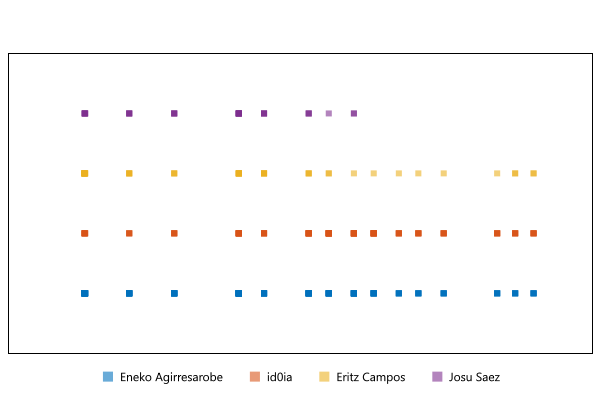
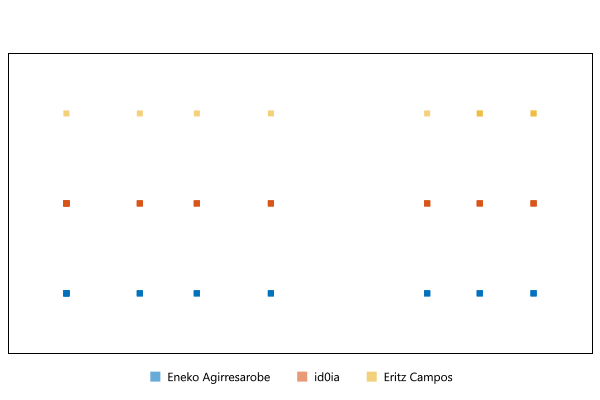
Report updated

diff --git a/Zanter/fe54f9e9/index.html b/Zanter/fe54f9e9/index.html
@@ -22,4 +22,4 @@ body
     font-family: "Segoe UI","-apple-system",BlinkMacSystemFont,Roboto,"Helvetica Neue",Helvetica,Ubuntu,Arial,sans-serif,"Apple Color Emoji","Segoe UI Emoji","Segoe UI Symbol";
     font-size: .875rem;
 }
-</style><div class="reportSubItem">Updated on 2023-04-19 10:22:50</div><h1>Automobil zirkuitua</h1><div class="reportItem"><svg aria-labelledby="__bolt-status-131-desc" style="fill: rgba(85,163,98,1)" height="16" viewBox="0 0 16 16" width="16" xmlns="http://www.w3.org/2000/svg"><desc id="__bolt-status-131-desc">Success 20m 33s</desc><circle cx="8" cy="8" r="8"></circle><path d="M6.062 11.144l-.003-.002-1.784-1.785A.937.937 0 1 1 5.6 8.031l1.125 1.124 3.88-3.88A.937.937 0 1 1 11.931 6.6l-4.54 4.54-.004.004a.938.938 0 0 1-1.325 0z" fill="#fff"></path></svg> Eneko Agirresarobe: 51.94</div><div class="reportItem"><svg aria-labelledby="__bolt-status-131-desc" style="fill: rgba(85,163,98,1)" height="16" viewBox="0 0 16 16" width="16" xmlns="http://www.w3.org/2000/svg"><desc id="__bolt-status-131-desc">Success 20m 33s</desc><circle cx="8" cy="8" r="8"></circle><path d="M6.062 11.144l-.003-.002-1.784-1.785A.937.937 0 1 1 5.6 8.031l1.125 1.124 3.88-3.88A.937.937 0 1 1 11.931 6.6l-4.54 4.54-.004.004a.938.938 0 0 1-1.325 0z" fill="#fff"></path></svg> id0ia: 16.43</div><div class="reportItem"><svg aria-labelledby="__bolt-status-131-desc" style="fill: rgba(85,163,98,1)" height="16" viewBox="0 0 16 16" width="16" xmlns="http://www.w3.org/2000/svg"><desc id="__bolt-status-131-desc">Success 20m 33s</desc><circle cx="8" cy="8" r="8"></circle><path d="M6.062 11.144l-.003-.002-1.784-1.785A.937.937 0 1 1 5.6 8.031l1.125 1.124 3.88-3.88A.937.937 0 1 1 11.931 6.6l-4.54 4.54-.004.004a.938.938 0 0 1-1.325 0z" fill="#fff"></path></svg> Eritz Campos: 30.36</div><div class="reportItem"><svg aria-labelledby="__bolt-status-104-desc" style="fill: rgba(205,74,69,1)" height="16" viewBox="0 0 16 16" width="16" xmlns="http://www.w3.org/2000/svg"><desc id="__bolt-status-104-desc">Failed 15m 19s</desc><circle cx="8" cy="8" r="8"></circle><path d="M10.984 5.004a.9.9 0 0 1 0 1.272L9.27 7.99l1.74 1.741a.9.9 0 1 1-1.272 1.273l-1.74-1.741-1.742 1.74a.9.9 0 1 1-1.272-1.272l1.74-1.74-1.713-1.714a.9.9 0 0 1 1.273-1.273l1.713 1.713 1.714-1.713a.9.9 0 0 1 1.273 0z" fill="#fff"></path></svg> Josu Saez: 1.28</div><h1>Golf zelaia</h1><div class="reportItem"><svg aria-labelledby="__bolt-status-131-desc" style="fill: rgba(85,163,98,1)" height="16" viewBox="0 0 16 16" width="16" xmlns="http://www.w3.org/2000/svg"><desc id="__bolt-status-131-desc">Success 20m 33s</desc><circle cx="8" cy="8" r="8"></circle><path d="M6.062 11.144l-.003-.002-1.784-1.785A.937.937 0 1 1 5.6 8.031l1.125 1.124 3.88-3.88A.937.937 0 1 1 11.931 6.6l-4.54 4.54-.004.004a.938.938 0 0 1-1.325 0z" fill="#fff"></path></svg> mikel goiogana: 51.22</div><div class="reportItem"><svg aria-labelledby="__bolt-status-104-desc" style="fill: rgba(205,74,69,1)" height="16" viewBox="0 0 16 16" width="16" xmlns="http://www.w3.org/2000/svg"><desc id="__bolt-status-104-desc">Failed 15m 19s</desc><circle cx="8" cy="8" r="8"></circle><path d="M10.984 5.004a.9.9 0 0 1 0 1.272L9.27 7.99l1.74 1.741a.9.9 0 1 1-1.272 1.273l-1.74-1.741-1.742 1.74a.9.9 0 1 1-1.272-1.272l1.74-1.74-1.713-1.714a.9.9 0 0 1 1.273-1.273l1.713 1.713 1.714-1.713a.9.9 0 0 1 1.273 0z" fill="#fff"></path></svg> Mikel MTZ ZUAZO: 4.77</div><div class="reportItem"><svg aria-labelledby="__bolt-status-131-desc" style="fill: rgba(85,163,98,1)" height="16" viewBox="0 0 16 16" width="16" xmlns="http://www.w3.org/2000/svg"><desc id="__bolt-status-131-desc">Success 20m 33s</desc><circle cx="8" cy="8" r="8"></circle><path d="M6.062 11.144l-.003-.002-1.784-1.785A.937.937 0 1 1 5.6 8.031l1.125 1.124 3.88-3.88A.937.937 0 1 1 11.931 6.6l-4.54 4.54-.004.004a.938.938 0 0 1-1.325 0z" fill="#fff"></path></svg> Ander Viteri: 44.01</div><h1>Kontzertu-gunea Karrantzan</h1><div class="reportItem"><svg aria-labelledby="__bolt-status-131-desc" style="fill: rgba(85,163,98,1)" height="16" viewBox="0 0 16 16" width="16" xmlns="http://www.w3.org/2000/svg"><desc id="__bolt-status-131-desc">Success 20m 33s</desc><circle cx="8" cy="8" r="8"></circle><path d="M6.062 11.144l-.003-.002-1.784-1.785A.937.937 0 1 1 5.6 8.031l1.125 1.124 3.88-3.88A.937.937 0 1 1 11.931 6.6l-4.54 4.54-.004.004a.938.938 0 0 1-1.325 0z" fill="#fff"></path></svg> Ioritz Segura: 8.97</div><div class="reportItem"><svg aria-labelledby="__bolt-status-131-desc" style="fill: rgba(85,163,98,1)" height="16" viewBox="0 0 16 16" width="16" xmlns="http://www.w3.org/2000/svg"><desc id="__bolt-status-131-desc">Success 20m 33s</desc><circle cx="8" cy="8" r="8"></circle><path d="M6.062 11.144l-.003-.002-1.784-1.785A.937.937 0 1 1 5.6 8.031l1.125 1.124 3.88-3.88A.937.937 0 1 1 11.931 6.6l-4.54 4.54-.004.004a.938.938 0 0 1-1.325 0z" fill="#fff"></path></svg> Laura Arribas: 22.23</div><div class="reportItem"><svg aria-labelledby="__bolt-status-131-desc" style="fill: rgba(85,163,98,1)" height="16" viewBox="0 0 16 16" width="16" xmlns="http://www.w3.org/2000/svg"><desc id="__bolt-status-131-desc">Success 20m 33s</desc><circle cx="8" cy="8" r="8"></circle><path d="M6.062 11.144l-.003-.002-1.784-1.785A.937.937 0 1 1 5.6 8.031l1.125 1.124 3.88-3.88A.937.937 0 1 1 11.931 6.6l-4.54 4.54-.004.004a.938.938 0 0 1-1.325 0z" fill="#fff"></path></svg> Jon Ruiz de la Ylla: 59.14</div><div class="reportItem"><svg aria-labelledby="__bolt-status-131-desc" style="fill: rgba(85,163,98,1)" height="16" viewBox="0 0 16 16" width="16" xmlns="http://www.w3.org/2000/svg"><desc id="__bolt-status-131-desc">Success 20m 33s</desc><circle cx="8" cy="8" r="8"></circle><path d="M6.062 11.144l-.003-.002-1.784-1.785A.937.937 0 1 1 5.6 8.031l1.125 1.124 3.88-3.88A.937.937 0 1 1 11.931 6.6l-4.54 4.54-.004.004a.938.938 0 0 1-1.325 0z" fill="#fff"></path></svg> unai fernandez: 9.67</div></body></html>
+</style><div class="reportSubItem">Updated on 2023-04-19 11:03:07</div><h1>Automobil zirkuitua</h1><div class="reportImage"><img width="350" src="fe54f9e9/activity-plot-Automobil-zirkuitua.png"/></div><div class="reportItem"><svg aria-labelledby="__bolt-status-131-desc" style="fill: rgba(85,163,98,1)" height="16" viewBox="0 0 16 16" width="16" xmlns="http://www.w3.org/2000/svg"><desc id="__bolt-status-131-desc">Success 20m 33s</desc><circle cx="8" cy="8" r="8"></circle><path d="M6.062 11.144l-.003-.002-1.784-1.785A.937.937 0 1 1 5.6 8.031l1.125 1.124 3.88-3.88A.937.937 0 1 1 11.931 6.6l-4.54 4.54-.004.004a.938.938 0 0 1-1.325 0z" fill="#fff"></path></svg> Eneko Agirresarobe: 25.64</div><div class="reportItem"><svg aria-labelledby="__bolt-status-104-desc" style="fill: rgba(205,74,69,1)" height="16" viewBox="0 0 16 16" width="16" xmlns="http://www.w3.org/2000/svg"><desc id="__bolt-status-104-desc">Failed 15m 19s</desc><circle cx="8" cy="8" r="8"></circle><path d="M10.984 5.004a.9.9 0 0 1 0 1.272L9.27 7.99l1.74 1.741a.9.9 0 1 1-1.272 1.273l-1.74-1.741-1.742 1.74a.9.9 0 1 1-1.272-1.272l1.74-1.74-1.713-1.714a.9.9 0 0 1 1.273-1.273l1.713 1.713 1.714-1.713a.9.9 0 0 1 1.273 0z" fill="#fff"></path></svg> id0ia: 4.42</div><div class="reportItem"><svg aria-labelledby="__bolt-status-131-desc" style="fill: rgba(85,163,98,1)" height="16" viewBox="0 0 16 16" width="16" xmlns="http://www.w3.org/2000/svg"><desc id="__bolt-status-131-desc">Success 20m 33s</desc><circle cx="8" cy="8" r="8"></circle><path d="M6.062 11.144l-.003-.002-1.784-1.785A.937.937 0 1 1 5.6 8.031l1.125 1.124 3.88-3.88A.937.937 0 1 1 11.931 6.6l-4.54 4.54-.004.004a.938.938 0 0 1-1.325 0z" fill="#fff"></path></svg> Eritz Campos: 69.94</div><h1>Golf zelaia</h1><div class="reportImage"><img width="350" src="fe54f9e9/activity-plot-Golf-zelaia.png"/></div><div class="reportItem"><svg aria-labelledby="__bolt-status-131-desc" style="fill: rgba(85,163,98,1)" height="16" viewBox="0 0 16 16" width="16" xmlns="http://www.w3.org/2000/svg"><desc id="__bolt-status-131-desc">Success 20m 33s</desc><circle cx="8" cy="8" r="8"></circle><path d="M6.062 11.144l-.003-.002-1.784-1.785A.937.937 0 1 1 5.6 8.031l1.125 1.124 3.88-3.88A.937.937 0 1 1 11.931 6.6l-4.54 4.54-.004.004a.938.938 0 0 1-1.325 0z" fill="#fff"></path></svg> mikel goiogana: 51.22</div><div class="reportItem"><svg aria-labelledby="__bolt-status-104-desc" style="fill: rgba(205,74,69,1)" height="16" viewBox="0 0 16 16" width="16" xmlns="http://www.w3.org/2000/svg"><desc id="__bolt-status-104-desc">Failed 15m 19s</desc><circle cx="8" cy="8" r="8"></circle><path d="M10.984 5.004a.9.9 0 0 1 0 1.272L9.27 7.99l1.74 1.741a.9.9 0 1 1-1.272 1.273l-1.74-1.741-1.742 1.74a.9.9 0 1 1-1.272-1.272l1.74-1.74-1.713-1.714a.9.9 0 0 1 1.273-1.273l1.713 1.713 1.714-1.713a.9.9 0 0 1 1.273 0z" fill="#fff"></path></svg> Mikel MTZ ZUAZO: 4.77</div><div class="reportItem"><svg aria-labelledby="__bolt-status-131-desc" style="fill: rgba(85,163,98,1)" height="16" viewBox="0 0 16 16" width="16" xmlns="http://www.w3.org/2000/svg"><desc id="__bolt-status-131-desc">Success 20m 33s</desc><circle cx="8" cy="8" r="8"></circle><path d="M6.062 11.144l-.003-.002-1.784-1.785A.937.937 0 1 1 5.6 8.031l1.125 1.124 3.88-3.88A.937.937 0 1 1 11.931 6.6l-4.54 4.54-.004.004a.938.938 0 0 1-1.325 0z" fill="#fff"></path></svg> Ander Viteri: 44.01</div><h1>Kontzertu-gunea Karrantzan</h1><div class="reportImage"><img width="350" src="fe54f9e9/activity-plot-Kontzertu-gunea-Karrantzan.png"/></div><div class="reportItem"><svg aria-labelledby="__bolt-status-131-desc" style="fill: rgba(85,163,98,1)" height="16" viewBox="0 0 16 16" width="16" xmlns="http://www.w3.org/2000/svg"><desc id="__bolt-status-131-desc">Success 20m 33s</desc><circle cx="8" cy="8" r="8"></circle><path d="M6.062 11.144l-.003-.002-1.784-1.785A.937.937 0 1 1 5.6 8.031l1.125 1.124 3.88-3.88A.937.937 0 1 1 11.931 6.6l-4.54 4.54-.004.004a.938.938 0 0 1-1.325 0z" fill="#fff"></path></svg> Ioritz Segura: 8.97</div><div class="reportItem"><svg aria-labelledby="__bolt-status-131-desc" style="fill: rgba(85,163,98,1)" height="16" viewBox="0 0 16 16" width="16" xmlns="http://www.w3.org/2000/svg"><desc id="__bolt-status-131-desc">Success 20m 33s</desc><circle cx="8" cy="8" r="8"></circle><path d="M6.062 11.144l-.003-.002-1.784-1.785A.937.937 0 1 1 5.6 8.031l1.125 1.124 3.88-3.88A.937.937 0 1 1 11.931 6.6l-4.54 4.54-.004.004a.938.938 0 0 1-1.325 0z" fill="#fff"></path></svg> Laura Arribas: 22.23</div><div class="reportItem"><svg aria-labelledby="__bolt-status-131-desc" style="fill: rgba(85,163,98,1)" height="16" viewBox="0 0 16 16" width="16" xmlns="http://www.w3.org/2000/svg"><desc id="__bolt-status-131-desc">Success 20m 33s</desc><circle cx="8" cy="8" r="8"></circle><path d="M6.062 11.144l-.003-.002-1.784-1.785A.937.937 0 1 1 5.6 8.031l1.125 1.124 3.88-3.88A.937.937 0 1 1 11.931 6.6l-4.54 4.54-.004.004a.938.938 0 0 1-1.325 0z" fill="#fff"></path></svg> Jon Ruiz de la Ylla: 59.14</div><div class="reportItem"><svg aria-labelledby="__bolt-status-131-desc" style="fill: rgba(85,163,98,1)" height="16" viewBox="0 0 16 16" width="16" xmlns="http://www.w3.org/2000/svg"><desc id="__bolt-status-131-desc">Success 20m 33s</desc><circle cx="8" cy="8" r="8"></circle><path d="M6.062 11.144l-.003-.002-1.784-1.785A.937.937 0 1 1 5.6 8.031l1.125 1.124 3.88-3.88A.937.937 0 1 1 11.931 6.6l-4.54 4.54-.004.004a.938.938 0 0 1-1.325 0z" fill="#fff"></path></svg> unai fernandez: 9.67</div></body></html>

diff --git a/Zanter/fe54f9e9/666b7f03/index.html b/Zanter/fe54f9e9/666b7f03/index.html
@@ -22,4 +22,4 @@ body
     font-family: "Segoe UI","-apple-system",BlinkMacSystemFont,Roboto,"Helvetica Neue",Helvetica,Ubuntu,Arial,sans-serif,"Apple Color Emoji","Segoe UI Emoji","Segoe UI Symbol";
     font-size: .875rem;
 }
-</style><h1>Kontzertu-gunea Karrantzan</h1><div class="reportSubItem">Updated on 2023-04-19 10:22:50</div><div class="reportImage"><img width="350" src="activity-plot-Kontzertu-gunea-Karrantzan.png"/></div><div class="reportItem"><svg aria-labelledby="__bolt-status-131-desc" style="fill: rgba(85,163,98,1)" height="16" viewBox="0 0 16 16" width="16" xmlns="http://www.w3.org/2000/svg"><desc id="__bolt-status-131-desc">Success 20m 33s</desc><circle cx="8" cy="8" r="8"></circle><path d="M6.062 11.144l-.003-.002-1.784-1.785A.937.937 0 1 1 5.6 8.031l1.125 1.124 3.88-3.88A.937.937 0 1 1 11.931 6.6l-4.54 4.54-.004.004a.938.938 0 0 1-1.325 0z" fill="#fff"></path></svg> Ioritz Segura: 8.97</div><div class="reportItem"><svg aria-labelledby="__bolt-status-131-desc" style="fill: rgba(85,163,98,1)" height="16" viewBox="0 0 16 16" width="16" xmlns="http://www.w3.org/2000/svg"><desc id="__bolt-status-131-desc">Success 20m 33s</desc><circle cx="8" cy="8" r="8"></circle><path d="M6.062 11.144l-.003-.002-1.784-1.785A.937.937 0 1 1 5.6 8.031l1.125 1.124 3.88-3.88A.937.937 0 1 1 11.931 6.6l-4.54 4.54-.004.004a.938.938 0 0 1-1.325 0z" fill="#fff"></path></svg> Laura Arribas: 22.23</div><div class="reportItem"><svg aria-labelledby="__bolt-status-131-desc" style="fill: rgba(85,163,98,1)" height="16" viewBox="0 0 16 16" width="16" xmlns="http://www.w3.org/2000/svg"><desc id="__bolt-status-131-desc">Success 20m 33s</desc><circle cx="8" cy="8" r="8"></circle><path d="M6.062 11.144l-.003-.002-1.784-1.785A.937.937 0 1 1 5.6 8.031l1.125 1.124 3.88-3.88A.937.937 0 1 1 11.931 6.6l-4.54 4.54-.004.004a.938.938 0 0 1-1.325 0z" fill="#fff"></path></svg> Jon Ruiz de la Ylla: 59.14</div><div class="reportItem"><svg aria-labelledby="__bolt-status-131-desc" style="fill: rgba(85,163,98,1)" height="16" viewBox="0 0 16 16" width="16" xmlns="http://www.w3.org/2000/svg"><desc id="__bolt-status-131-desc">Success 20m 33s</desc><circle cx="8" cy="8" r="8"></circle><path d="M6.062 11.144l-.003-.002-1.784-1.785A.937.937 0 1 1 5.6 8.031l1.125 1.124 3.88-3.88A.937.937 0 1 1 11.931 6.6l-4.54 4.54-.004.004a.938.938 0 0 1-1.325 0z" fill="#fff"></path></svg> unai fernandez: 9.67</div></body></html>
+</style><h1>Kontzertu-gunea Karrantzan</h1><div class="reportSubItem">Updated on 2023-04-19 11:03:07</div><div class="reportImage"><img width="350" src="activity-plot-Kontzertu-gunea-Karrantzan.png"/></div><div class="reportItem"><svg aria-labelledby="__bolt-status-131-desc" style="fill: rgba(85,163,98,1)" height="16" viewBox="0 0 16 16" width="16" xmlns="http://www.w3.org/2000/svg"><desc id="__bolt-status-131-desc">Success 20m 33s</desc><circle cx="8" cy="8" r="8"></circle><path d="M6.062 11.144l-.003-.002-1.784-1.785A.937.937 0 1 1 5.6 8.031l1.125 1.124 3.88-3.88A.937.937 0 1 1 11.931 6.6l-4.54 4.54-.004.004a.938.938 0 0 1-1.325 0z" fill="#fff"></path></svg> Ioritz Segura: 8.97</div><div class="reportItem"><svg aria-labelledby="__bolt-status-131-desc" style="fill: rgba(85,163,98,1)" height="16" viewBox="0 0 16 16" width="16" xmlns="http://www.w3.org/2000/svg"><desc id="__bolt-status-131-desc">Success 20m 33s</desc><circle cx="8" cy="8" r="8"></circle><path d="M6.062 11.144l-.003-.002-1.784-1.785A.937.937 0 1 1 5.6 8.031l1.125 1.124 3.88-3.88A.937.937 0 1 1 11.931 6.6l-4.54 4.54-.004.004a.938.938 0 0 1-1.325 0z" fill="#fff"></path></svg> Laura Arribas: 22.23</div><div class="reportItem"><svg aria-labelledby="__bolt-status-131-desc" style="fill: rgba(85,163,98,1)" height="16" viewBox="0 0 16 16" width="16" xmlns="http://www.w3.org/2000/svg"><desc id="__bolt-status-131-desc">Success 20m 33s</desc><circle cx="8" cy="8" r="8"></circle><path d="M6.062 11.144l-.003-.002-1.784-1.785A.937.937 0 1 1 5.6 8.031l1.125 1.124 3.88-3.88A.937.937 0 1 1 11.931 6.6l-4.54 4.54-.004.004a.938.938 0 0 1-1.325 0z" fill="#fff"></path></svg> Jon Ruiz de la Ylla: 59.14</div><div class="reportItem"><svg aria-labelledby="__bolt-status-131-desc" style="fill: rgba(85,163,98,1)" height="16" viewBox="0 0 16 16" width="16" xmlns="http://www.w3.org/2000/svg"><desc id="__bolt-status-131-desc">Success 20m 33s</desc><circle cx="8" cy="8" r="8"></circle><path d="M6.062 11.144l-.003-.002-1.784-1.785A.937.937 0 1 1 5.6 8.031l1.125 1.124 3.88-3.88A.937.937 0 1 1 11.931 6.6l-4.54 4.54-.004.004a.938.938 0 0 1-1.325 0z" fill="#fff"></path></svg> unai fernandez: 9.67</div></body></html>

diff --git a/Zanter/fe54f9e9/0541b4df/index.html b/Zanter/fe54f9e9/0541b4df/index.html
@@ -22,4 +22,4 @@ body
     font-family: "Segoe UI","-apple-system",BlinkMacSystemFont,Roboto,"Helvetica Neue",Helvetica,Ubuntu,Arial,sans-serif,"Apple Color Emoji","Segoe UI Emoji","Segoe UI Symbol";
     font-size: .875rem;
 }
-</style><h1>Automobil zirkuitua</h1><div class="reportSubItem">Updated on 2023-04-19 10:22:42</div><div class="reportImage"><img width="350" src="activity-plot-Automobil-zirkuitua.png"/></div><div class="reportItem"><svg aria-labelledby="__bolt-status-131-desc" style="fill: rgba(85,163,98,1)" height="16" viewBox="0 0 16 16" width="16" xmlns="http://www.w3.org/2000/svg"><desc id="__bolt-status-131-desc">Success 20m 33s</desc><circle cx="8" cy="8" r="8"></circle><path d="M6.062 11.144l-.003-.002-1.784-1.785A.937.937 0 1 1 5.6 8.031l1.125 1.124 3.88-3.88A.937.937 0 1 1 11.931 6.6l-4.54 4.54-.004.004a.938.938 0 0 1-1.325 0z" fill="#fff"></path></svg> Eneko Agirresarobe: 51.94</div><div class="reportItem"><svg aria-labelledby="__bolt-status-131-desc" style="fill: rgba(85,163,98,1)" height="16" viewBox="0 0 16 16" width="16" xmlns="http://www.w3.org/2000/svg"><desc id="__bolt-status-131-desc">Success 20m 33s</desc><circle cx="8" cy="8" r="8"></circle><path d="M6.062 11.144l-.003-.002-1.784-1.785A.937.937 0 1 1 5.6 8.031l1.125 1.124 3.88-3.88A.937.937 0 1 1 11.931 6.6l-4.54 4.54-.004.004a.938.938 0 0 1-1.325 0z" fill="#fff"></path></svg> id0ia: 16.43</div><div class="reportItem"><svg aria-labelledby="__bolt-status-131-desc" style="fill: rgba(85,163,98,1)" height="16" viewBox="0 0 16 16" width="16" xmlns="http://www.w3.org/2000/svg"><desc id="__bolt-status-131-desc">Success 20m 33s</desc><circle cx="8" cy="8" r="8"></circle><path d="M6.062 11.144l-.003-.002-1.784-1.785A.937.937 0 1 1 5.6 8.031l1.125 1.124 3.88-3.88A.937.937 0 1 1 11.931 6.6l-4.54 4.54-.004.004a.938.938 0 0 1-1.325 0z" fill="#fff"></path></svg> Eritz Campos: 30.36</div><div class="reportItem"><svg aria-labelledby="__bolt-status-104-desc" style="fill: rgba(205,74,69,1)" height="16" viewBox="0 0 16 16" width="16" xmlns="http://www.w3.org/2000/svg"><desc id="__bolt-status-104-desc">Failed 15m 19s</desc><circle cx="8" cy="8" r="8"></circle><path d="M10.984 5.004a.9.9 0 0 1 0 1.272L9.27 7.99l1.74 1.741a.9.9 0 1 1-1.272 1.273l-1.74-1.741-1.742 1.74a.9.9 0 1 1-1.272-1.272l1.74-1.74-1.713-1.714a.9.9 0 0 1 1.273-1.273l1.713 1.713 1.714-1.713a.9.9 0 0 1 1.273 0z" fill="#fff"></path></svg> Josu Saez: 1.28</div></body></html>
+</style><h1>Automobil zirkuitua</h1><div class="reportSubItem">Updated on 2023-04-19 11:02:55</div><div class="reportImage"><img width="350" src="activity-plot-Automobil-zirkuitua.png"/></div><div class="reportItem"><svg aria-labelledby="__bolt-status-131-desc" style="fill: rgba(85,163,98,1)" height="16" viewBox="0 0 16 16" width="16" xmlns="http://www.w3.org/2000/svg"><desc id="__bolt-status-131-desc">Success 20m 33s</desc><circle cx="8" cy="8" r="8"></circle><path d="M6.062 11.144l-.003-.002-1.784-1.785A.937.937 0 1 1 5.6 8.031l1.125 1.124 3.88-3.88A.937.937 0 1 1 11.931 6.6l-4.54 4.54-.004.004a.938.938 0 0 1-1.325 0z" fill="#fff"></path></svg> Eneko Agirresarobe: 25.64</div><div class="reportItem"><svg aria-labelledby="__bolt-status-104-desc" style="fill: rgba(205,74,69,1)" height="16" viewBox="0 0 16 16" width="16" xmlns="http://www.w3.org/2000/svg"><desc id="__bolt-status-104-desc">Failed 15m 19s</desc><circle cx="8" cy="8" r="8"></circle><path d="M10.984 5.004a.9.9 0 0 1 0 1.272L9.27 7.99l1.74 1.741a.9.9 0 1 1-1.272 1.273l-1.74-1.741-1.742 1.74a.9.9 0 1 1-1.272-1.272l1.74-1.74-1.713-1.714a.9.9 0 0 1 1.273-1.273l1.713 1.713 1.714-1.713a.9.9 0 0 1 1.273 0z" fill="#fff"></path></svg> id0ia: 4.42</div><div class="reportItem"><svg aria-labelledby="__bolt-status-131-desc" style="fill: rgba(85,163,98,1)" height="16" viewBox="0 0 16 16" width="16" xmlns="http://www.w3.org/2000/svg"><desc id="__bolt-status-131-desc">Success 20m 33s</desc><circle cx="8" cy="8" r="8"></circle><path d="M6.062 11.144l-.003-.002-1.784-1.785A.937.937 0 1 1 5.6 8.031l1.125 1.124 3.88-3.88A.937.937 0 1 1 11.931 6.6l-4.54 4.54-.004.004a.938.938 0 0 1-1.325 0z" fill="#fff"></path></svg> Eritz Campos: 69.94</div></body></html>

diff --git a/Zanter/fe54f9e9/fdd45fe1/index.html b/Zanter/fe54f9e9/fdd45fe1/index.html
@@ -22,4 +22,4 @@ body
     font-family: "Segoe UI","-apple-system",BlinkMacSystemFont,Roboto,"Helvetica Neue",Helvetica,Ubuntu,Arial,sans-serif,"Apple Color Emoji","Segoe UI Emoji","Segoe UI Symbol";
     font-size: .875rem;
 }
-</style><h1>Golf zelaia</h1><div class="reportSubItem">Updated on 2023-04-19 10:22:46</div><div class="reportImage"><img width="350" src="activity-plot-Golf-zelaia.png"/></div><div class="reportItem"><svg aria-labelledby="__bolt-status-131-desc" style="fill: rgba(85,163,98,1)" height="16" viewBox="0 0 16 16" width="16" xmlns="http://www.w3.org/2000/svg"><desc id="__bolt-status-131-desc">Success 20m 33s</desc><circle cx="8" cy="8" r="8"></circle><path d="M6.062 11.144l-.003-.002-1.784-1.785A.937.937 0 1 1 5.6 8.031l1.125 1.124 3.88-3.88A.937.937 0 1 1 11.931 6.6l-4.54 4.54-.004.004a.938.938 0 0 1-1.325 0z" fill="#fff"></path></svg> mikel goiogana: 51.22</div><div class="reportItem"><svg aria-labelledby="__bolt-status-104-desc" style="fill: rgba(205,74,69,1)" height="16" viewBox="0 0 16 16" width="16" xmlns="http://www.w3.org/2000/svg"><desc id="__bolt-status-104-desc">Failed 15m 19s</desc><circle cx="8" cy="8" r="8"></circle><path d="M10.984 5.004a.9.9 0 0 1 0 1.272L9.27 7.99l1.74 1.741a.9.9 0 1 1-1.272 1.273l-1.74-1.741-1.742 1.74a.9.9 0 1 1-1.272-1.272l1.74-1.74-1.713-1.714a.9.9 0 0 1 1.273-1.273l1.713 1.713 1.714-1.713a.9.9 0 0 1 1.273 0z" fill="#fff"></path></svg> Mikel MTZ ZUAZO: 4.77</div><div class="reportItem"><svg aria-labelledby="__bolt-status-131-desc" style="fill: rgba(85,163,98,1)" height="16" viewBox="0 0 16 16" width="16" xmlns="http://www.w3.org/2000/svg"><desc id="__bolt-status-131-desc">Success 20m 33s</desc><circle cx="8" cy="8" r="8"></circle><path d="M6.062 11.144l-.003-.002-1.784-1.785A.937.937 0 1 1 5.6 8.031l1.125 1.124 3.88-3.88A.937.937 0 1 1 11.931 6.6l-4.54 4.54-.004.004a.938.938 0 0 1-1.325 0z" fill="#fff"></path></svg> Ander Viteri: 44.01</div></body></html>
+</style><h1>Golf zelaia</h1><div class="reportSubItem">Updated on 2023-04-19 11:03:01</div><div class="reportImage"><img width="350" src="activity-plot-Golf-zelaia.png"/></div><div class="reportItem"><svg aria-labelledby="__bolt-status-131-desc" style="fill: rgba(85,163,98,1)" height="16" viewBox="0 0 16 16" width="16" xmlns="http://www.w3.org/2000/svg"><desc id="__bolt-status-131-desc">Success 20m 33s</desc><circle cx="8" cy="8" r="8"></circle><path d="M6.062 11.144l-.003-.002-1.784-1.785A.937.937 0 1 1 5.6 8.031l1.125 1.124 3.88-3.88A.937.937 0 1 1 11.931 6.6l-4.54 4.54-.004.004a.938.938 0 0 1-1.325 0z" fill="#fff"></path></svg> mikel goiogana: 51.22</div><div class="reportItem"><svg aria-labelledby="__bolt-status-104-desc" style="fill: rgba(205,74,69,1)" height="16" viewBox="0 0 16 16" width="16" xmlns="http://www.w3.org/2000/svg"><desc id="__bolt-status-104-desc">Failed 15m 19s</desc><circle cx="8" cy="8" r="8"></circle><path d="M10.984 5.004a.9.9 0 0 1 0 1.272L9.27 7.99l1.74 1.741a.9.9 0 1 1-1.272 1.273l-1.74-1.741-1.742 1.74a.9.9 0 1 1-1.272-1.272l1.74-1.74-1.713-1.714a.9.9 0 0 1 1.273-1.273l1.713 1.713 1.714-1.713a.9.9 0 0 1 1.273 0z" fill="#fff"></path></svg> Mikel MTZ ZUAZO: 4.77</div><div class="reportItem"><svg aria-labelledby="__bolt-status-131-desc" style="fill: rgba(85,163,98,1)" height="16" viewBox="0 0 16 16" width="16" xmlns="http://www.w3.org/2000/svg"><desc id="__bolt-status-131-desc">Success 20m 33s</desc><circle cx="8" cy="8" r="8"></circle><path d="M6.062 11.144l-.003-.002-1.784-1.785A.937.937 0 1 1 5.6 8.031l1.125 1.124 3.88-3.88A.937.937 0 1 1 11.931 6.6l-4.54 4.54-.004.004a.938.938 0 0 1-1.325 0z" fill="#fff"></path></svg> Ander Viteri: 44.01</div></body></html>
